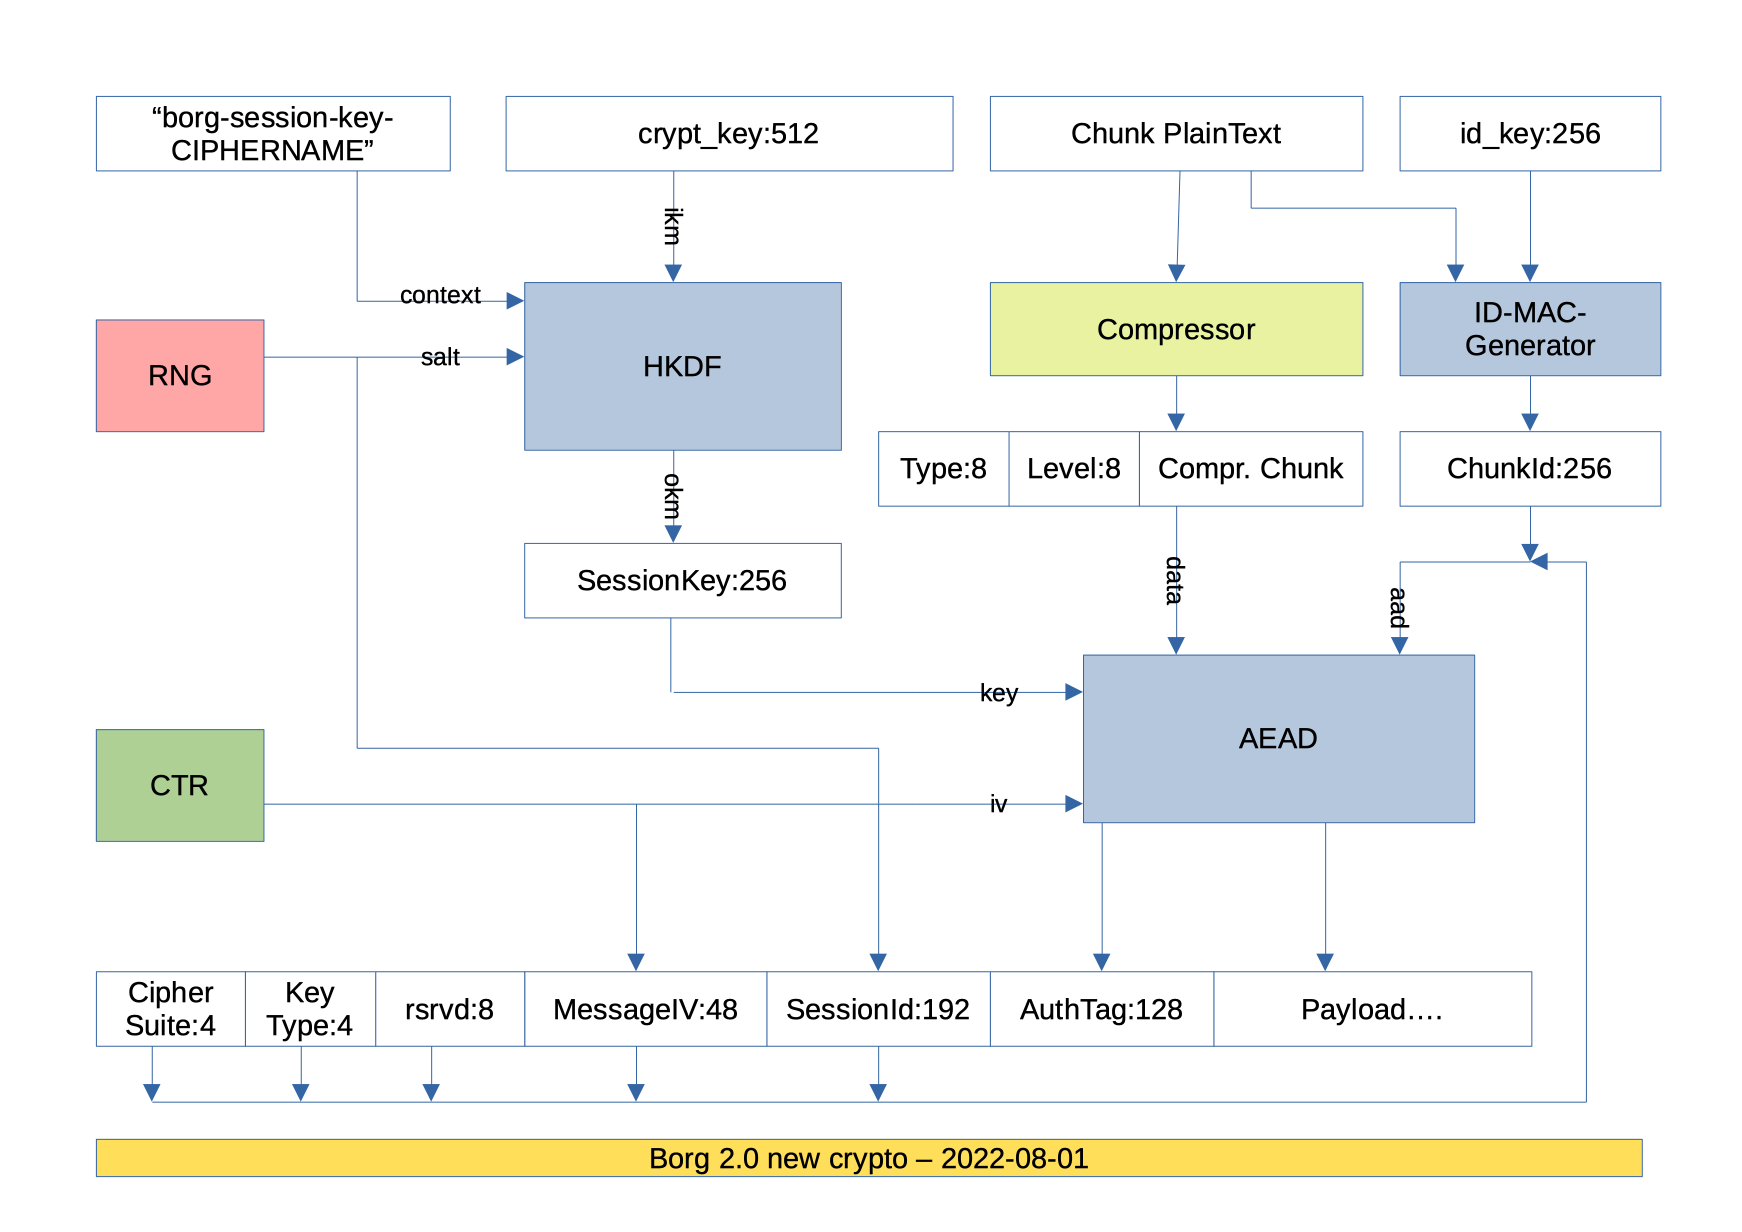
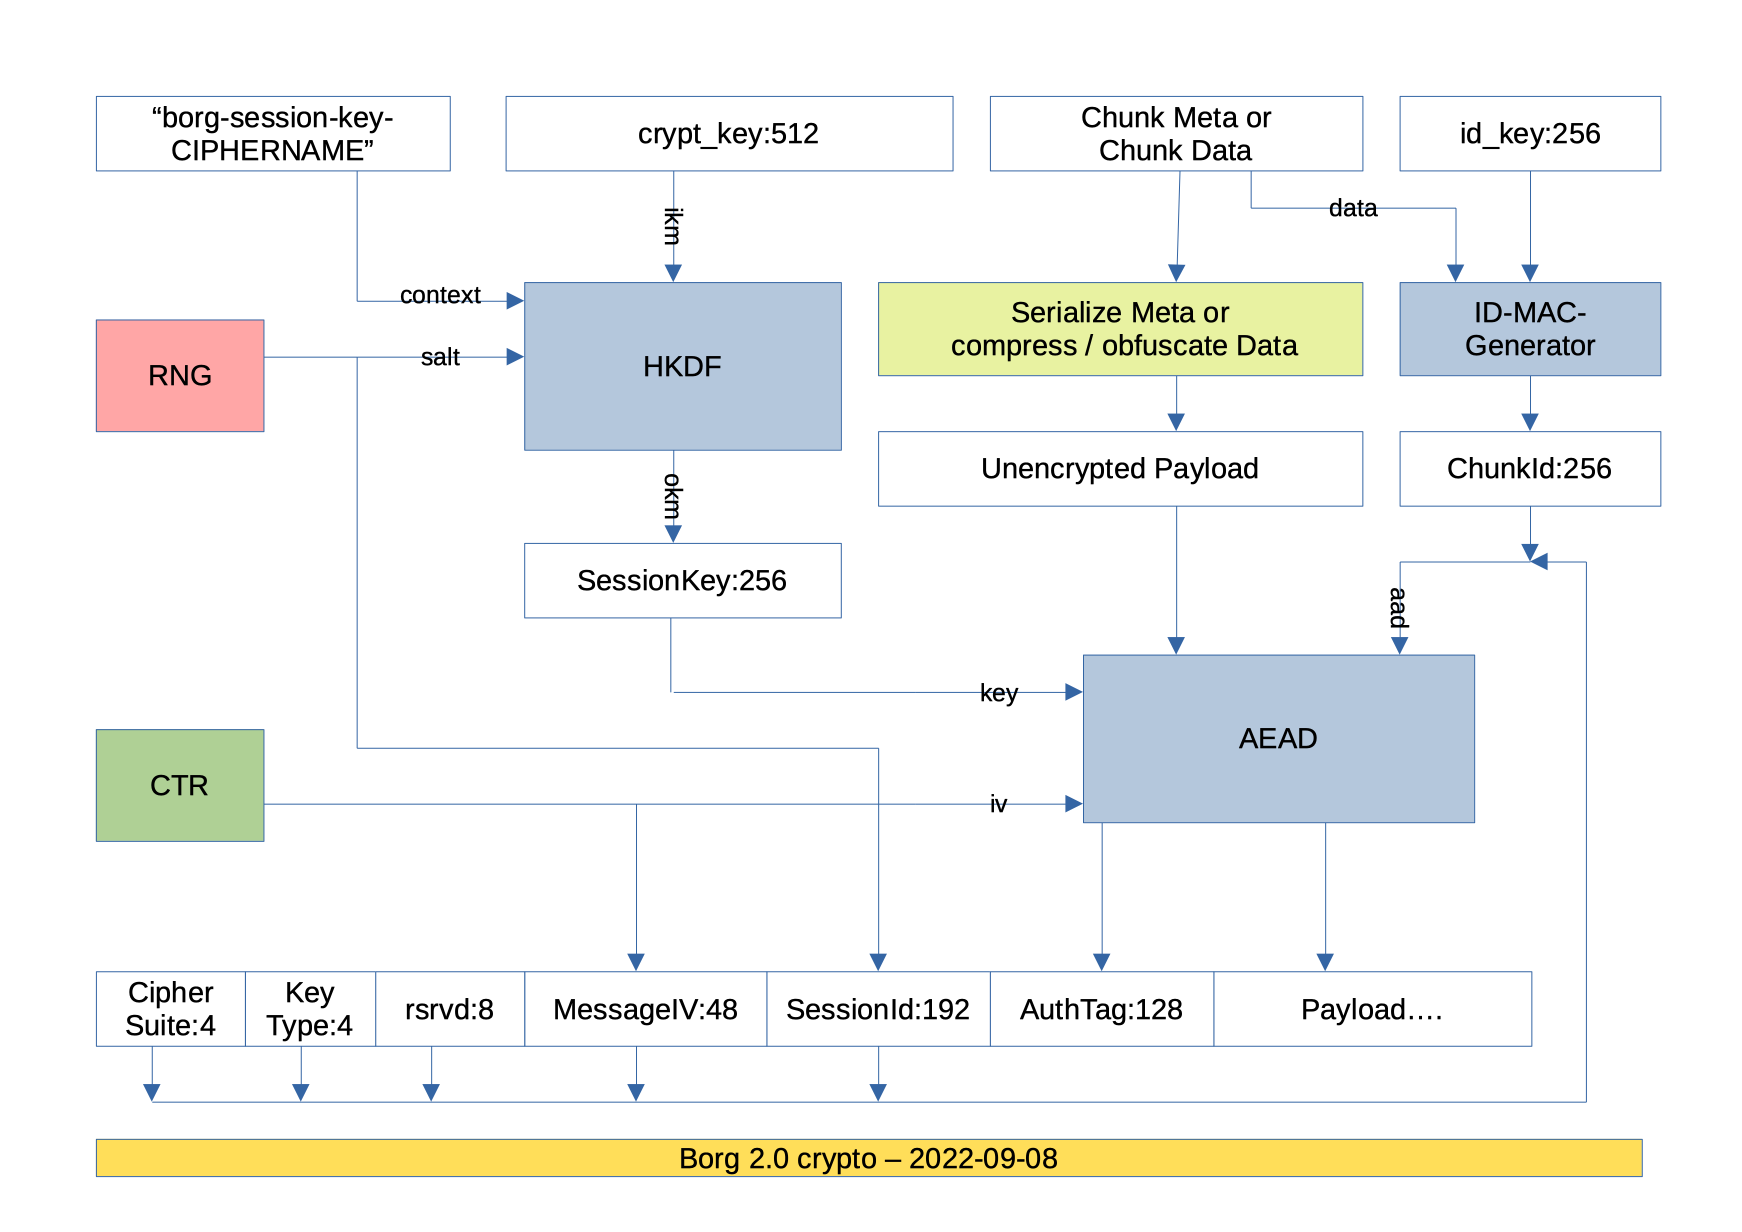
update docs

diff --git a/docs/internals/data-structures.rst b/docs/internals/data-structures.rst
@@ -77,7 +77,7 @@ don't have a particular meaning (except for the Manifest_).
 
 Normally the keys are computed like this::
 
-  key = id = id_hash(unencrypted_data)
+  key = id = id_hash(plaintext_data)  # plain = not encrypted, not compressed, not obfuscated
 
 The id_hash function depends on the :ref:`encryption mode <borg_rcreate>`.
 
@@ -98,15 +98,15 @@ followed by a number of log entries. Each log entry consists of (in this order):
 
 * crc32 checksum (uint32):
   - for PUT2: CRC32(size + tag + key + digest)
-  - for PUT: CRC32(size + tag + key + data)
+  - for PUT: CRC32(size + tag + key + payload)
   - for DELETE: CRC32(size + tag + key)
   - for COMMIT: CRC32(size + tag)
 * size (uint32) of the entry (including the whole header)
 * tag (uint8): PUT(0), DELETE(1), COMMIT(2) or PUT2(3)
 * key (256 bit) - only for PUT/PUT2/DELETE
-* data (size - 41 bytes) - only for PUT
-* xxh64 digest (64 bit) = XXH64(size + tag + key + data) - only for PUT2
-* data (size - 41 - 8 bytes) - only for PUT2
+* payload (size - 41 bytes) - only for PUT
+* xxh64 digest (64 bit) = XXH64(size + tag + key + payload) - only for PUT2
+* payload (size - 41 - 8 bytes) - only for PUT2
 
 PUT2 is new since repository version 2. For new log entries PUT2 is used.
 PUT is still supported to read version 1 repositories, but not generated any more.
@@ -116,7 +116,7 @@ version 2+.
 Those files are strictly append-only and modified only once.
 
 When an object is written to the repository a ``PUT`` entry is written
-to the file containing the object id and data. If an object is deleted
+to the file containing the object id and payload. If an object is deleted
 a ``DELETE`` entry is appended with the object id.
 
 A ``COMMIT`` tag is written when a repository transaction is
@@ -130,13 +130,42 @@ partial/uncommitted transaction.
 The size of individual segments is limited to 4 GiB, since the offset of entries
 within segments is stored in a 32-bit unsigned integer in the repository index.
 
-Objects
-~~~~~~~
+Objects / Payload structure
+~~~~~~~~~~~~~~~~~~~~~~~~~~~
 
-All objects (the manifest, archives, archive item streams chunks and file data
-chunks) are encrypted and/or compressed. See :ref:`data-encryption` for a
-graphic outlining the anatomy of an object in Borg. The `type` for compression
-is explained in :ref:`data-compression`.
+All data (the manifest, archives, archive item stream chunks and file data
+chunks) is compressed, optionally obfuscated and encrypted. This produces some
+additional metadata (size and compression information), which is separately
+serialized and also encrypted.
+
+See :ref:`data-encryption` for a graphic outlining the anatomy of the encryption in Borg.
+What you see at the bottom there is done twice: once for the data and once for the metadata.
+
+An object (the payload part of a segment file log entry) must be like:
+
+- length of encrypted metadata (16bit unsigned int)
+- encrypted metadata (incl. encryption header), when decrypted:
+
+  - msgpacked dict with:
+
+    - ctype (compression type 0..255)
+    - clevel (compression level 0..255)
+    - csize (overall compressed (and maybe obfuscated) data size)
+    - psize (only when obfuscated: payload size without the obfuscation trailer)
+    - size (uncompressed size of the data)
+- encrypted data (incl. encryption header), when decrypted:
+
+  - compressed data (with an optional all-zero-bytes obfuscation trailer)
+
+This new, more complex repo v2 object format was implemented to be able to efficiently
+query the metadata without having to read, transfer and decrypt the (usually much bigger)
+data part.
+
+The metadata is encrypted to not disclose potentially sensitive information that could be
+used for e.g. fingerprinting attacks.
+
+The compression `ctype` and `clevel` is explained in :ref:`data-compression`.
+
 
 Index, hints and integrity
 ~~~~~~~~~~~~~~~~~~~~~~~~~~
@@ -855,7 +884,7 @@ For each borg invocation, a new sessionkey is derived from the borg key material
 and the 48bit IV starts from 0 again (both ciphers internally add a 32bit counter
 to our IV, so we'll just count up by 1 per chunk).
 
-The chunk layout is best seen at the bottom of this diagram:
+The encryption layout is best seen at the bottom of this diagram:
 
 .. figure:: encryption-aead.png
     :figwidth: 100%
@@ -954,14 +983,14 @@ representation of the repository id.
 Compression
 -----------
 
-Borg supports the following compression methods, each identified by a type
-byte:
+Borg supports the following compression methods, each identified by a ctype value
+in the range between 0 and 255 (and augmented by a clevel 0..255 value for the
+compression level):
 
 - none (no compression, pass through data 1:1), identified by 0x00
 - lz4 (low compression, but super fast), identified by 0x01
 - zstd (level 1-22 offering a wide range: level 1 is lower compression and high
-  speed, level 22 is higher compression and lower speed) - since borg 1.1.4,
-  identified by 0x03
+  speed, level 22 is higher compression and lower speed) - identified by 0x03
 - zlib (level 0-9, level 0 is no compression [but still adding zlib overhead],
   level 1 is low, level 9 is high compression), identified by 0x05
 - lzma (level 0-9, level 0 is low, level 9 is high compression), identified
